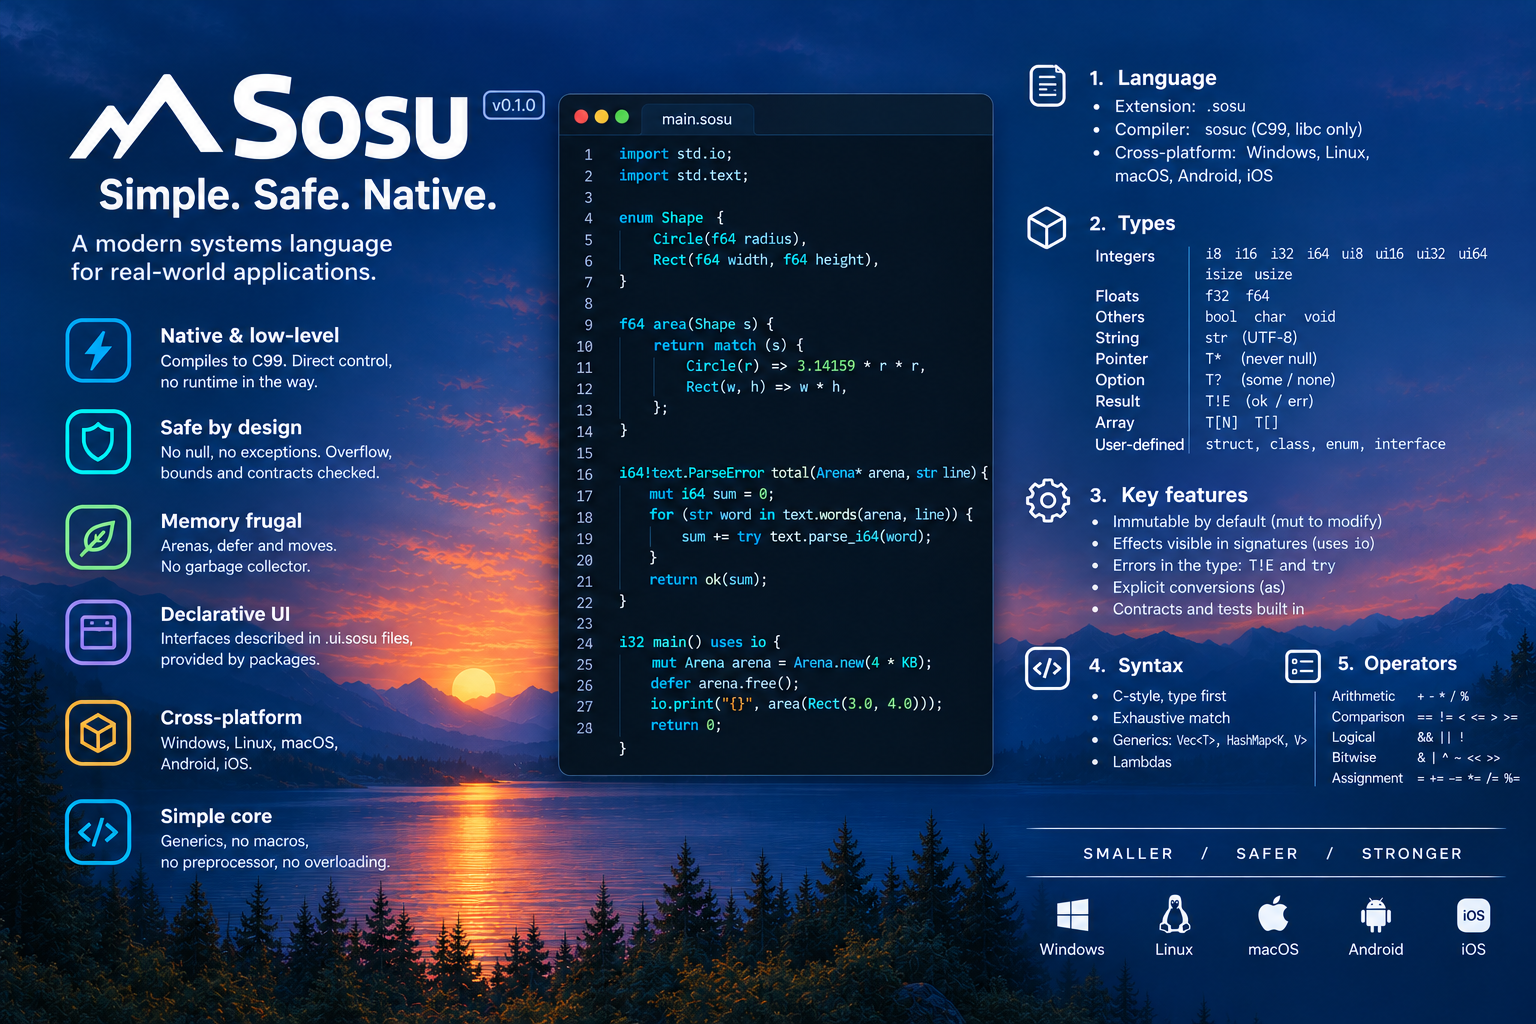
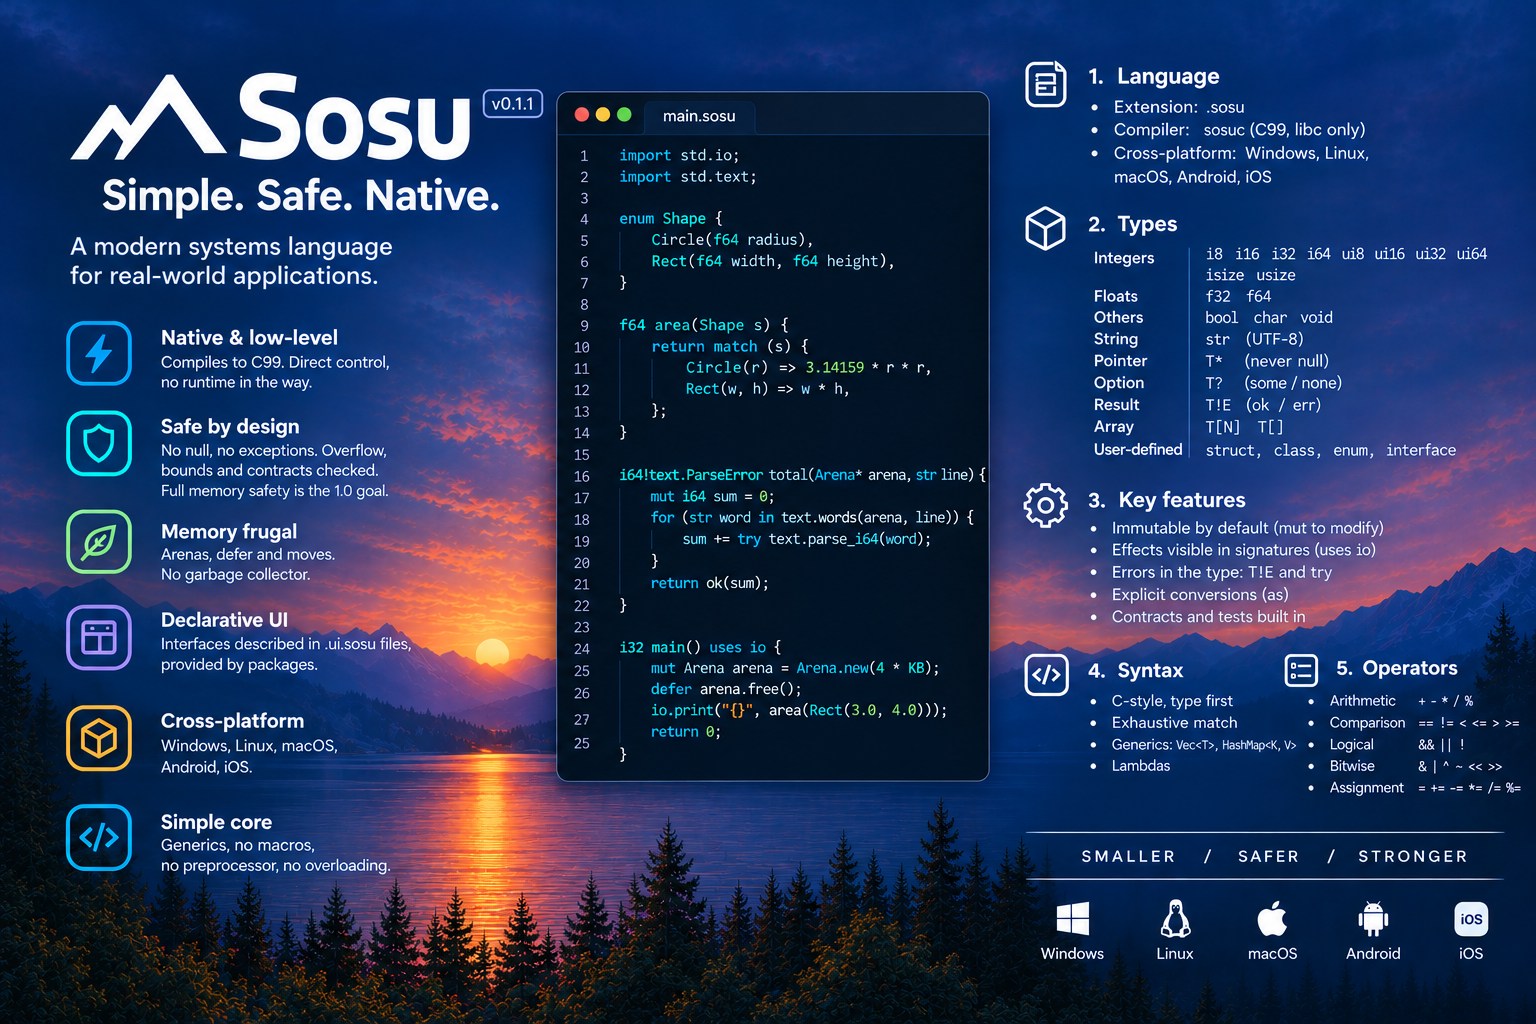
Review

Changed region(s): [[0.0, 0.0625, 1.0, 1.0], [0.375, 0.3125, 0.5938, 0.4062], [0.9375, 0.2188, 0.9688, 0.25]]

diff --git a/tests/package_tests.c b/tests/package_tests.c
@@ -1,6 +1,13 @@
+#ifndef _WIN32
+#define _POSIX_C_SOURCE 200809L /* symlink with -std=c99 */
+#endif
+
 #include <stdio.h>
 #include <stdlib.h>
 #include <string.h>
+#ifndef _WIN32
+#include <unistd.h>
+#endif
 
 #include "path.h"
 #include "program.h"
@@ -280,6 +287,25 @@ static char *read_lock(void) {
     return text;
 }
 
+#ifndef _WIN32
+/* A link to a folder is removed itself: the folder it points to keeps its content. */
+static void test_remove_link(void) {
+    shell_remove_dir("build/link_test");
+    shell_make_dir("build/link_test/target");
+    shell_make_dir("build/link_test/tree");
+    write_text("build/link_test/target/file", "kept");
+    bool linked = symlink("../target", "build/link_test/tree/link") == 0;
+    CHECK(linked, "cannot create a symbolic link");
+    if (linked) {
+        shell_remove_dir("build/link_test/tree");
+        FILE *file = fopen("build/link_test/target/file", "rb");
+        CHECK(file != NULL, "removing a folder followed a link into its target");
+        if (file) fclose(file);
+    }
+    shell_remove_dir("build/link_test");
+}
+#endif
+
 static void test_git(void) {
     shell_remove_dir("build/git_test");
     shell_make_dir("build/git_test/shapes/src");
@@ -339,6 +365,9 @@ int main(void) {
     test_paths();
     test_manifest();
     test_program();
+#ifndef _WIN32
+    test_remove_link();
+#endif
     test_git();
     return test_summary("package tests");
 }

diff --git a/src/lib/shell.c b/src/lib/shell.c
@@ -90,7 +90,12 @@ static void remove_tree(const char *path) {
     }
     RemoveDirectoryA(path);
 #else
-    if (unlink(path) == 0) return; /* a file or a link */
+    struct stat info;
+    if (lstat(path, &info) != 0) return;
+    if (!S_ISDIR(info.st_mode)) { /* a file or a link: removed itself, even to a folder */
+        unlink(path);
+        return;
+    }
     DIR *folder = opendir(path);
     if (!folder) return;
     struct dirent *entry;

diff --git a/src/lib/common.h b/src/lib/common.h
@@ -6,7 +6,7 @@
 #include <stddef.h>
 #include <stdint.h>
 
-#define SOSU_VERSION "0.1.0"
+#define SOSU_VERSION "0.1.1"
 
 /* Stops sosuc with a message: memory could not be had (exit code 3). */
 void sosu_out_of_memory(void);

diff --git a/README.md b/README.md
@@ -47,9 +47,10 @@ This program prints `12.0` and `total: 42`; it is tested as `tests/programs/read
 ## Why Sosu
 
 - **Native through C.** `sosuc` writes C99 and calls the C compiler of the system: a program runs wherever there is one, phones included, and calls C libraries directly (`extern "C"`, `sosuc bindgen`).
-- **No surprises in the code you read.** No implicit conversion, no overloading, no macros, no exceptions, no null pointer; integer overflow, bounds and contracts are checked (in debug, bounds in release too); `match` is exhaustive.
+- **Few surprises in the code you read.** No implicit conversion, no overloading, no macros, no exceptions, no null pointer; integer overflow, bounds and contracts are checked (in debug, bounds in release too); `match` is exhaustive.
 - **What a function does is in its signature.** Its effects (`uses io`, `time`, `random`, `threads`), its failures (`T!E`) and its allocations (an `Arena*` parameter).
-- **Memory without a garbage collector.** Arenas, `defer` and moves. There is no borrow checker as in Rust: some dangling pointers are not caught yet (spec §7.7).
+- **Memory without a garbage collector.** Arenas, `defer` and moves. **Not memory safe yet:** there is no borrow checker as in Rust, so some dangling pointers (to a freed arena or a dead local, kept in a variable) are not caught, and using one is undefined behaviour ([docs/SPEC.md](docs/SPEC.md) §7.7).
+- **Safe by design.** Safety is a design rule: what is not checked yet is listed in spec §7.7, and memory safety is a goal for 1.0.
 - **Close to Zig and Odin in spirit** (explicit memory, C interop, a small core), Sosu adds effects in the types, contracts, classes with interfaces, and its own interface toolkit (`platform`, `render`, `ui`, `.ui.sosu` files).
 
 English is the working language of the project: code, comments, compiler messages and documentation.
